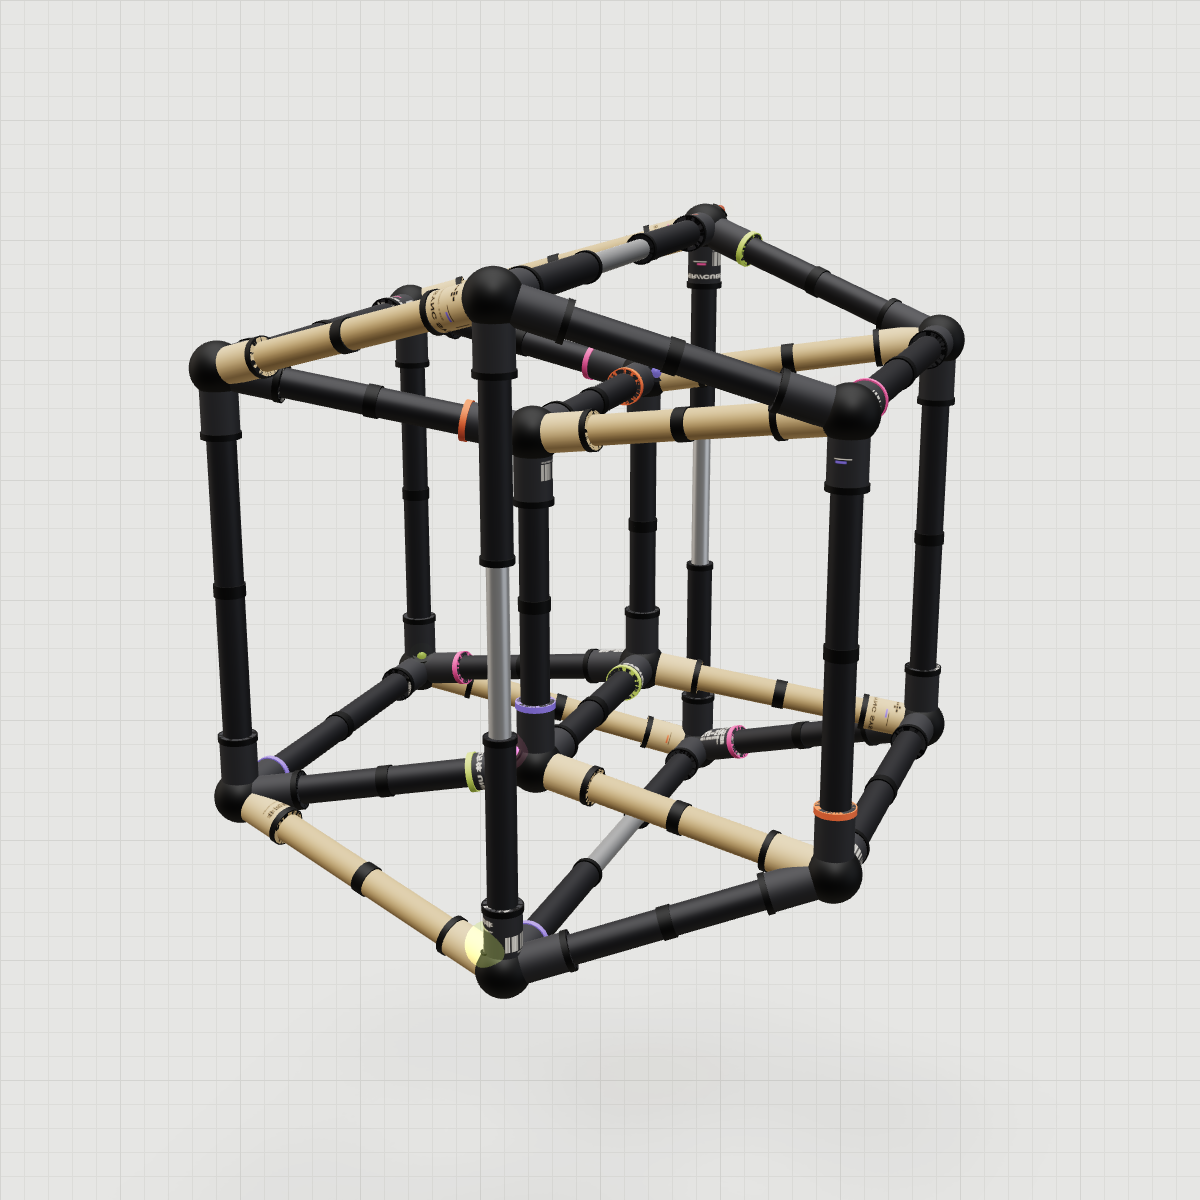
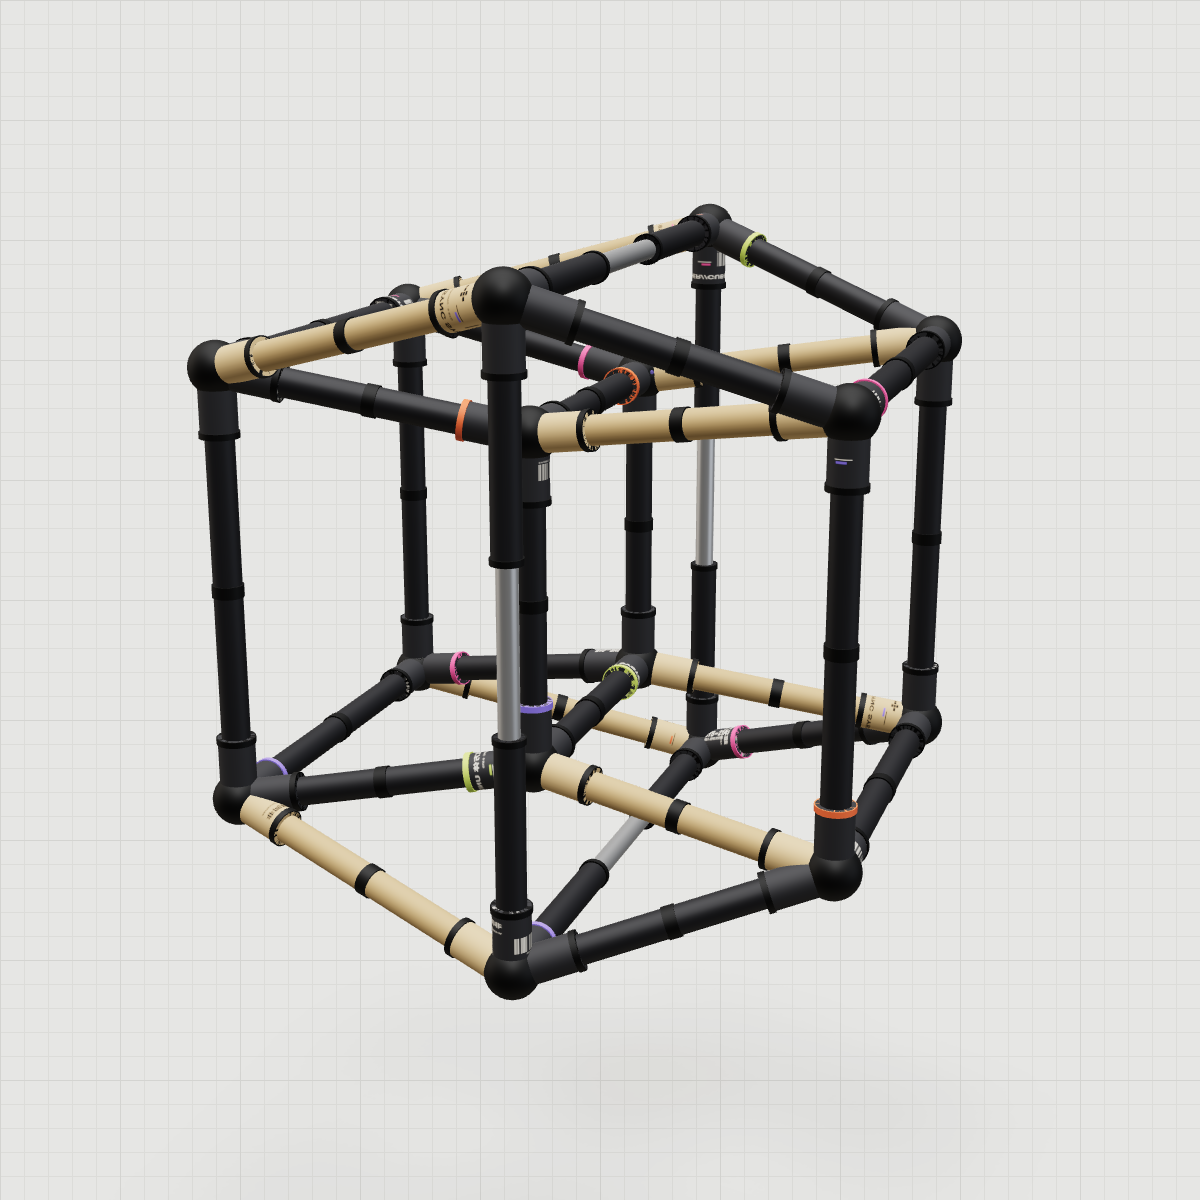
feat: 08 leds down to pinheads, no halo

diff --git a/08/src/Machine.tsx b/08/src/Machine.tsx
@@ -31,7 +31,7 @@ const LEDS: { node: number; dir: [number, number, number]; color: string; blink:
   { node: 3, dir: [0.7, 0.3, 0.6], color: '#8e7cf0', blink: (t) => (t % 3.2 < 1.6 ? 1 : 0.05) }, // slow square
   { node: 15, dir: [-0.5, 0.5, -0.7], color: '#ef5f9f', blink: (t) => (t % 1.1 < 0.05 ? 1 : 0.03) }, // tick
 ];
-const R_LED = 0.03, R_HALO = 0.11;
+const R_LED = 0.012; // a few pixels
 
 export function Machine() {
   const parts = useMemo(() => {
@@ -62,9 +62,7 @@ export function Machine() {
       const m = new THREE.MeshStandardMaterial({ color: l.color, emissive: l.color, emissiveIntensity: 1, roughness: 0.3, toneMapped: false });
       const o = mesh(sph, m);
       const bezel = mesh(cyl, black); // a short black collar round it
-      const hm = new THREE.MeshBasicMaterial({ color: l.color, transparent: true, opacity: 0, blending: THREE.AdditiveBlending, depthWrite: false, toneMapped: false });
-      const halo = mesh(sph, hm);
-      return { o, m, bezel, halo, hm, dir: new THREE.Vector3(...l.dir).normalize(), blink: l.blink, node: l.node };
+      return { o, m, bezel, dir: new THREE.Vector3(...l.dir).normalize(), blink: l.blink, node: l.node };
     });
     let seed = 8;
     const struts = EDGES.map((e, i) => {
@@ -143,13 +141,10 @@ export function Machine() {
       l.o.scale.setScalar(R_LED);
       l.bezel.position.copy(p).addScaledVector(l.dir, R_NODE * 0.9);
       l.bezel.quaternion.setFromUnitVectors(Y, l.dir);
-      l.bezel.scale.set(R_LED * 1.7, R_NODE * 0.2, R_LED * 1.7);
+      l.bezel.scale.set(R_LED * 2, R_NODE * 0.2, R_LED * 2);
       const b = l.blink(now);
-      l.m.emissiveIntensity = 0.2 + 2.2 * b;
-      l.m.color.set(l.m.emissive).multiplyScalar(0.3 + 0.7 * b);
-      l.halo.position.copy(p).addScaledVector(l.dir, R_NODE * 1.1);
-      l.halo.scale.setScalar(R_HALO * (0.6 + 0.4 * b));
-      l.hm.opacity = 0.28 * b;
+      l.m.emissiveIntensity = 0.1 + 3 * b;
+      l.m.color.set(l.m.emissive).multiplyScalar(0.2 + 0.8 * b);
     }
   });
 

diff --git a/08/README.md b/08/README.md
@@ -11,7 +11,7 @@ TESSERAKT, a hypercube built for real. A tesseract cannot exist in three dimensi
 - **Struts** (`Machine.tsx`): per edge, a sleeve sunk into each ball, a stanchion sliding out of each sleeve as far as the strut needs up to 0.8, and a rod between the stanchions taking the rest. Each stage overlaps the one round it by 0.1 so nothing shows daylight. Two sleeves fully compressed are 0.65 with the balls, under the shortest strut. Seals are short fat rings at every mouth.
 - **Colour**: the eight edges along w are sand, the other 24 graphite, so you can follow which edges are which as the inner cube turns out and the outer turns in.
 - **Decals** (`decals.ts`): canvas textures on the cylinder UVs, not `DecalGeometry`. One sleeve in three has one, the rest are plain paint; x runs round the tube, y along it, the open end at the top. Each carries a few of: hazard band at the mouth, brand round the tube, serial along it, barcode, a coloured tab, a cube's net as pictogram. Seeded, so the same every load.
-- **LEDs** (`Machine.tsx`): six status lights on the balls, each with its own blink: heartbeat, breathe, a flash every five seconds, fast steady, slow square, tick. An emissive bead in a black collar, and an additive halo sphere whose opacity follows the blink.
+- **LEDs** (`Machine.tsx`): six status lights on the balls, each with its own blink: heartbeat, breathe, a flash every five seconds, fast steady, slow square, tick. A pinhead emissive bead in a black collar, a few pixels, no glow.
 - **Light**: drei `Environment` from four `Lightformer`s, no HDR download, plus one directional. `ContactShadows` on a transparent canvas, the graph paper is CSS.
 
 ## Learned
